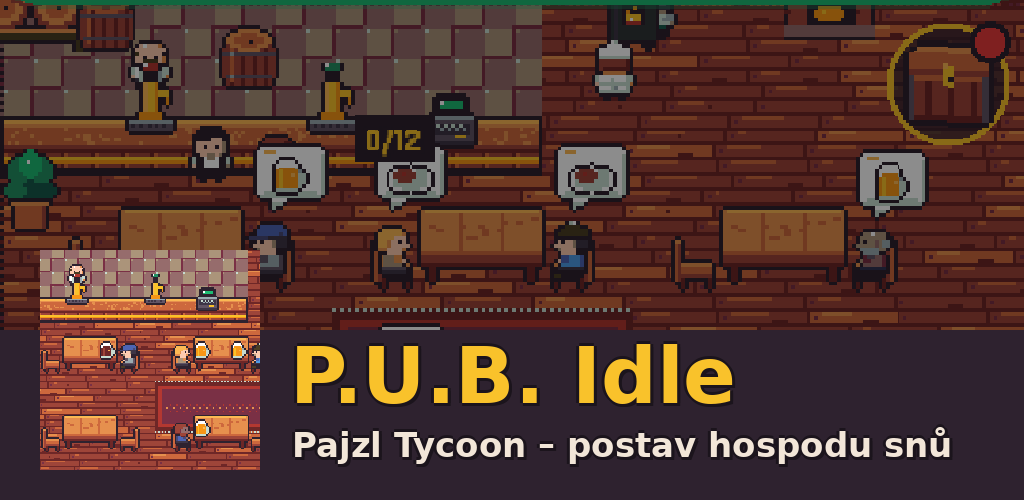
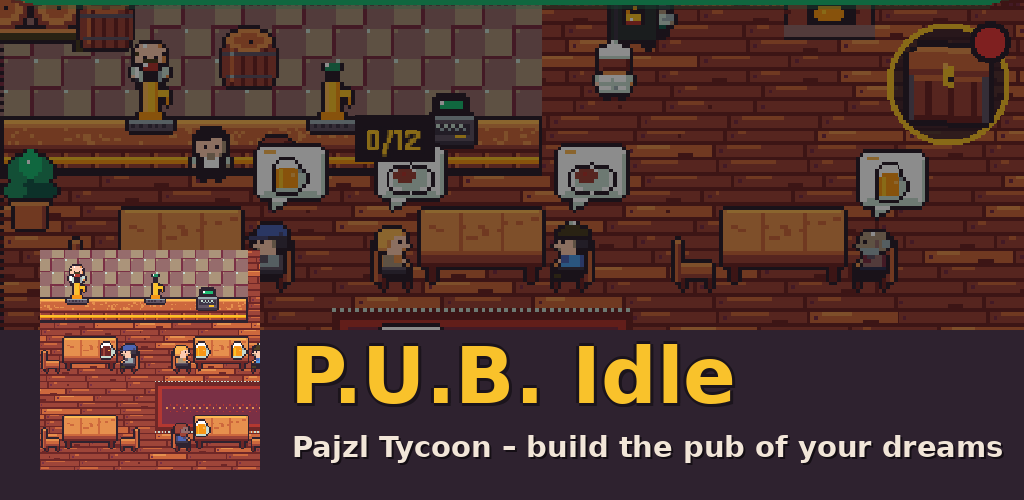
Play: anglické snímky a obrázek 1024×500, zásady soukromí EN a CS zvlášť, 7 návrhů ikony
Claude-Session: https://claude.ai/code/session_019pVQKghpPH9tCi5CBY3fz5

Changed region(s): [[0.2812, 0.84, 1.0, 0.93]]

diff --git a/public/soukromi.html b/public/soukromi.html
@@ -3,7 +3,7 @@
 <head>
 <meta charset="utf-8">
 <meta name="viewport" content="width=device-width, initial-scale=1">
-<title>P.U.B. Idle – Privacy Policy / Zásady ochrany soukromí</title>
+<title>P.U.B. Idle – Privacy Policy</title>
 <style>
   body { margin: 0; background: #2e222f; color: #f2e6d8; font: 16px/1.55 system-ui, sans-serif; }
   main { max-width: 720px; margin: 0 auto; padding: 24px 16px 48px; }
@@ -14,7 +14,7 @@
 <body>
 <main>
 <h1>Privacy Policy – P.U.B. Idle</h1>
-<p>Effective from 9 November 2026. The game is published by the developer BARONisko (“we”). <a href="#cs">Česky níže.</a></p>
+<p>Effective from 9 November 2026. The game is published by the developer BARONisko (“we”).</p>
 
 <h2>What data the game stores</h2>
 <p>Your game progress (coins, levels, settings) is stored <b>only on your device</b>. We have no user accounts,
@@ -43,38 +43,6 @@ details. The app only receives confirmation of which product was bought, so it c
 <h2>Changes and contact</h2>
 <p>Changes to this policy will be published on this page. Questions: the developer e-mail shown on the game's Google Play page.</p>
 
-<hr style="border-color:#555;margin:40px 0">
-<div id="cs" lang="cs">
-<h1>Zásady ochrany soukromí – P.U.B. Idle – Pajzl Tycoon</h1>
-<p>Platné od 9. 11. 2026. Hru vydává vývojář BARONisko (dále „my“).</p>
-
-<h2>Jaká data hra ukládá</h2>
-<p>Postup ve hře (coins, úrovně, nastavení) se ukládá <b>jen ve vašem zařízení</b>. Nemáme žádné uživatelské účty,
-nesbíráme jméno, e-mail, polohu, kontakty ani fotky a postup ve hře neposíláme na žádný náš server.</p>
-
-<h2>Reklamy (Google AdMob)</h2>
-<p>Mobilní aplikace může na vaše přání (tlačítka „za reklamu“) pustit reklamu za odměnu od služby Google AdMob.
-Google k tomu může zpracovávat údaje o zařízení, např. reklamní identifikátor, IP adresu, typ zařízení a údaje
-o zobrazení a kliknutí na reklamu, a to k zobrazování, měření a omezení podvodů s reklamami.
-Uživatelům v EU/EHP a ve Spojeném království se při prvním spuštění zobrazí formulář souhlasu od Googlu;
-bez souhlasu se zobrazují jen nepersonalizované reklamy. Jak Google data používá:
-<a href="https://policies.google.com/technologies/partner-sites">policies.google.com/technologies/partner-sites</a>,
-zásady Googlu: <a href="https://policies.google.com/privacy">policies.google.com/privacy</a>.</p>
-<p>Reklamní identifikátor můžete kdykoli smazat nebo obnovit v nastavení Androidu (Google → Reklamy).</p>
-
-<h2>Nákupy v aplikaci (Google Play)</h2>
-<p>Dobrovolné nákupy (diamanty, Štamgast, Bez reklam) zpracovává výhradně Google Play. Vaše platební údaje nikdy nevidíme.
-Aplikace dostane jen potvrzení, který produkt byl koupen, aby ho mohla připsat do hry (a „Bez reklam“ obnovit po přeinstalaci).</p>
-
-<h2>Děti</h2>
-<p>Hra je určena dospělým (18+), protože se odehrává v hospodě. Vědomě nesbíráme údaje od dětí.</p>
-
-<h2>Smazání dat</h2>
-<p>Všechna data hry smažete odinstalováním aplikace nebo vymazáním jejích dat v nastavení telefonu.</p>
-
-<h2>Změny a kontakt</h2>
-<p>Změny těchto zásad zveřejníme na této stránce. Dotazy posílejte na e-mail vývojáře uvedený na stránce hry v Google Play.</p>
-</div>
 </main>
 </body>
 </html>

diff --git a/public/soukromi-cs.html b/public/soukromi-cs.html
@@ -1,0 +1,47 @@
+<!doctype html>
+<html lang="cs">
+<head>
+<meta charset="utf-8">
+<meta name="viewport" content="width=device-width, initial-scale=1">
+<title>P.U.B. Idle – Zásady ochrany soukromí</title>
+<style>
+  body { margin: 0; background: #2e222f; color: #f2e6d8; font: 16px/1.55 system-ui, sans-serif; }
+  main { max-width: 720px; margin: 0 auto; padding: 24px 16px 48px; }
+  h1 { color: #f9c22b; font-size: 26px; } h2 { color: #f9c22b; font-size: 19px; margin-top: 28px; }
+  a { color: #8ff8e2; }
+</style>
+</head>
+<body>
+<main>
+<h1>Zásady ochrany soukromí – P.U.B. Idle – Pajzl Tycoon</h1>
+<p>Platné od 9. 11. 2026. Hru vydává vývojář BARONisko (dále „my“).</p>
+
+<h2>Jaká data hra ukládá</h2>
+<p>Postup ve hře (coins, úrovně, nastavení) se ukládá <b>jen ve vašem zařízení</b>. Nemáme žádné uživatelské účty,
+nesbíráme jméno, e-mail, polohu, kontakty ani fotky a postup ve hře neposíláme na žádný náš server.</p>
+
+<h2>Reklamy (Google AdMob)</h2>
+<p>Mobilní aplikace může na vaše přání (tlačítka „za reklamu“) pustit reklamu za odměnu od služby Google AdMob.
+Google k tomu může zpracovávat údaje o zařízení, např. reklamní identifikátor, IP adresu, typ zařízení a údaje
+o zobrazení a kliknutí na reklamu, a to k zobrazování, měření a omezení podvodů s reklamami.
+Uživatelům v EU/EHP a ve Spojeném království se při prvním spuštění zobrazí formulář souhlasu od Googlu;
+bez souhlasu se zobrazují jen nepersonalizované reklamy. Jak Google data používá:
+<a href="https://policies.google.com/technologies/partner-sites">policies.google.com/technologies/partner-sites</a>,
+zásady Googlu: <a href="https://policies.google.com/privacy">policies.google.com/privacy</a>.</p>
+<p>Reklamní identifikátor můžete kdykoli smazat nebo obnovit v nastavení Androidu (Google → Reklamy).</p>
+
+<h2>Nákupy v aplikaci (Google Play)</h2>
+<p>Dobrovolné nákupy (diamanty, Štamgast, Bez reklam) zpracovává výhradně Google Play. Vaše platební údaje nikdy nevidíme.
+Aplikace dostane jen potvrzení, který produkt byl koupen, aby ho mohla připsat do hry (a „Bez reklam“ obnovit po přeinstalaci).</p>
+
+<h2>Děti</h2>
+<p>Hra je určena dospělým (18+), protože se odehrává v hospodě. Vědomě nesbíráme údaje od dětí.</p>
+
+<h2>Smazání dat</h2>
+<p>Všechna data hry smažete odinstalováním aplikace nebo vymazáním jejích dat v nastavení telefonu.</p>
+
+<h2>Změny a kontakt</h2>
+<p>Změny těchto zásad zveřejníme na této stránce. Dotazy posílejte na e-mail vývojáře uvedený na stránce hry v Google Play.</p>
+</main>
+</body>
+</html>

diff --git a/PLAN.md b/PLAN.md
@@ -402,3 +402,6 @@ Ladění: ?pubs=2|3 (přidá hospody), ?mock=a|b|c (staré návrhy rozložení).
 - Hospoda 69c (celková kontrola před nahráním do Play): snímky všech záložek v angličtině bez chyb; nákupy: čekající platba
   (purchaseState 2) → hláška „Platba čeká“, po zaplacení se při spuštění / návratu do hry spotřebuje a připíše
   (billing.unclaimed → PubScene.iapGrant), jinak by ji Google po 3 dnech vrátil; zásady soukromí anglicky + česky, s nákupy.
+- Hospoda 70: zásady soukromí rozděleny – soukromi.html jen anglicky (URL v Play beze změny), soukromi-cs.html česky.
+  Grafika Play v angličtině: docs/play/snimek-1…6 (hospoda, noc, menu, pivovar, liga, krígly), obrázek 1024×500 s anglickým
+  podtitulkem. Návrhy ikony (7×, pixel art ze spritů hry): docs/navrhy-ui/ikona/ – čeká na výběr uživatele.

diff --git a/docs/play-console.md b/docs/play-console.md
@@ -32,7 +32,7 @@ Hraje se jednou rukou, na výšku, a i offline. Reklamy jsou jen dobrovolné –
 - Snímky telefonu: `docs/play/snimek-1.png` … (na výšku)
 - Kategorie: **Hry → Simulace** (nebo Neformální) · Značky: Idle, Manažerské
 - Kontaktní e-mail: tvůj e-mail vývojáře · Web: https://baronisko.github.io/hospoda-idle/
-- Zásady ochrany soukromí (URL): **https://baronisko.github.io/hospoda-idle/soukromi.html**
+- Zásady ochrany soukromí (URL): **https://baronisko.github.io/hospoda-idle/soukromi.html** (jen anglicky; česky soukromi-cs.html)
 
 ## Obsah aplikace (App content)
 1. **Zásady ochrany soukromí:** URL výše.
